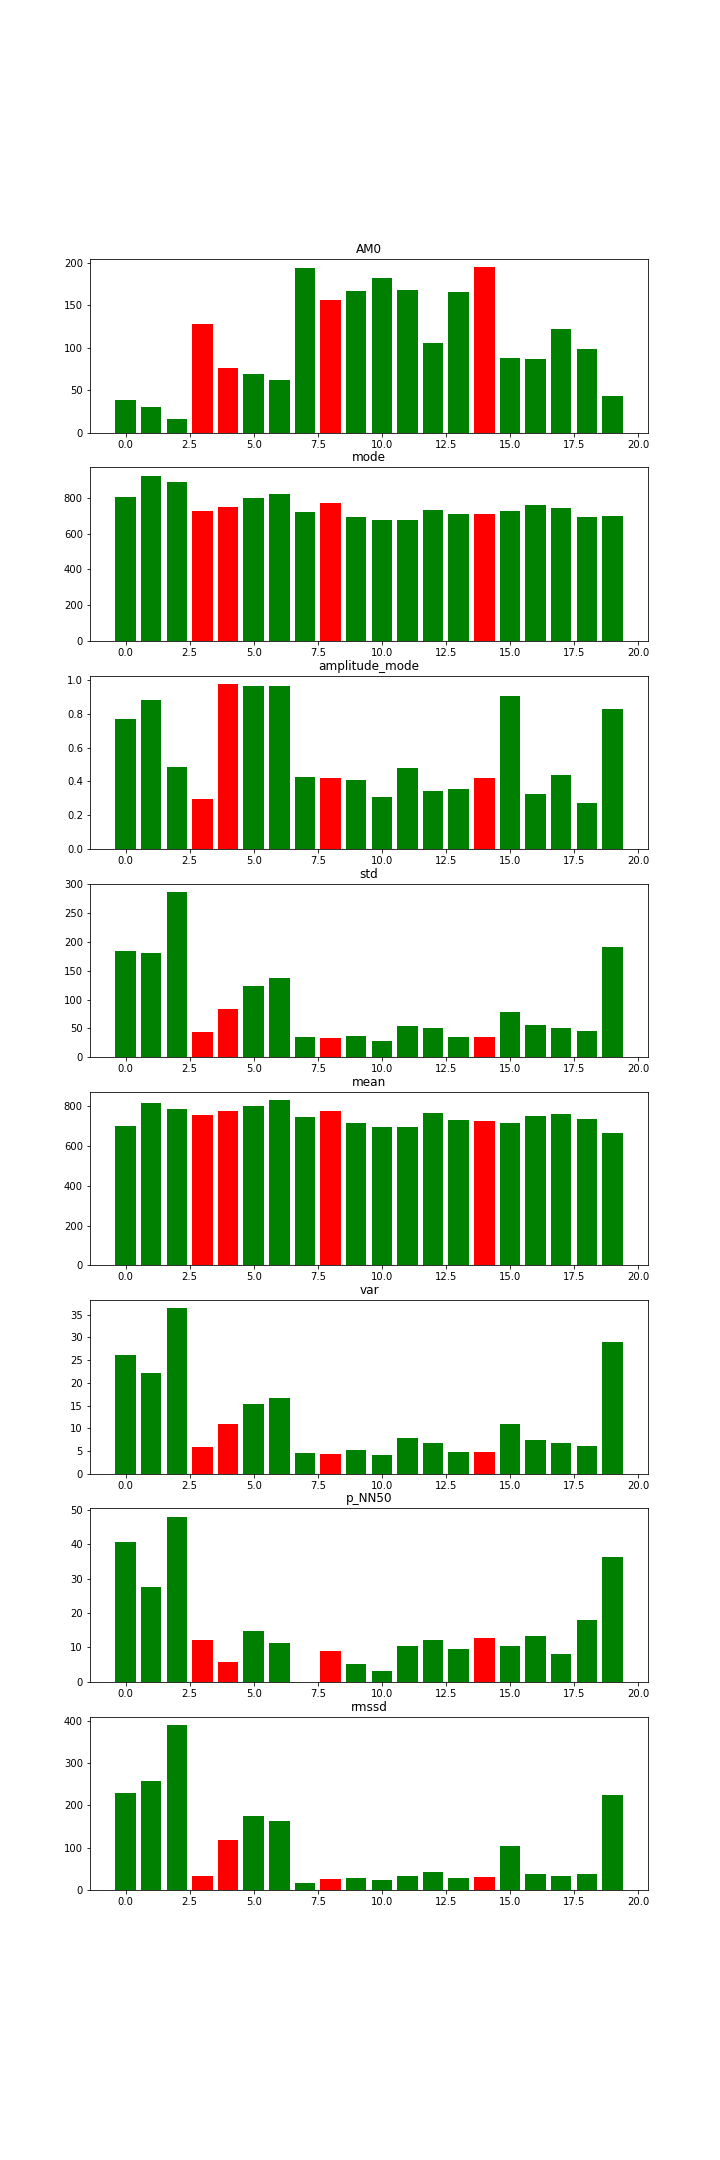
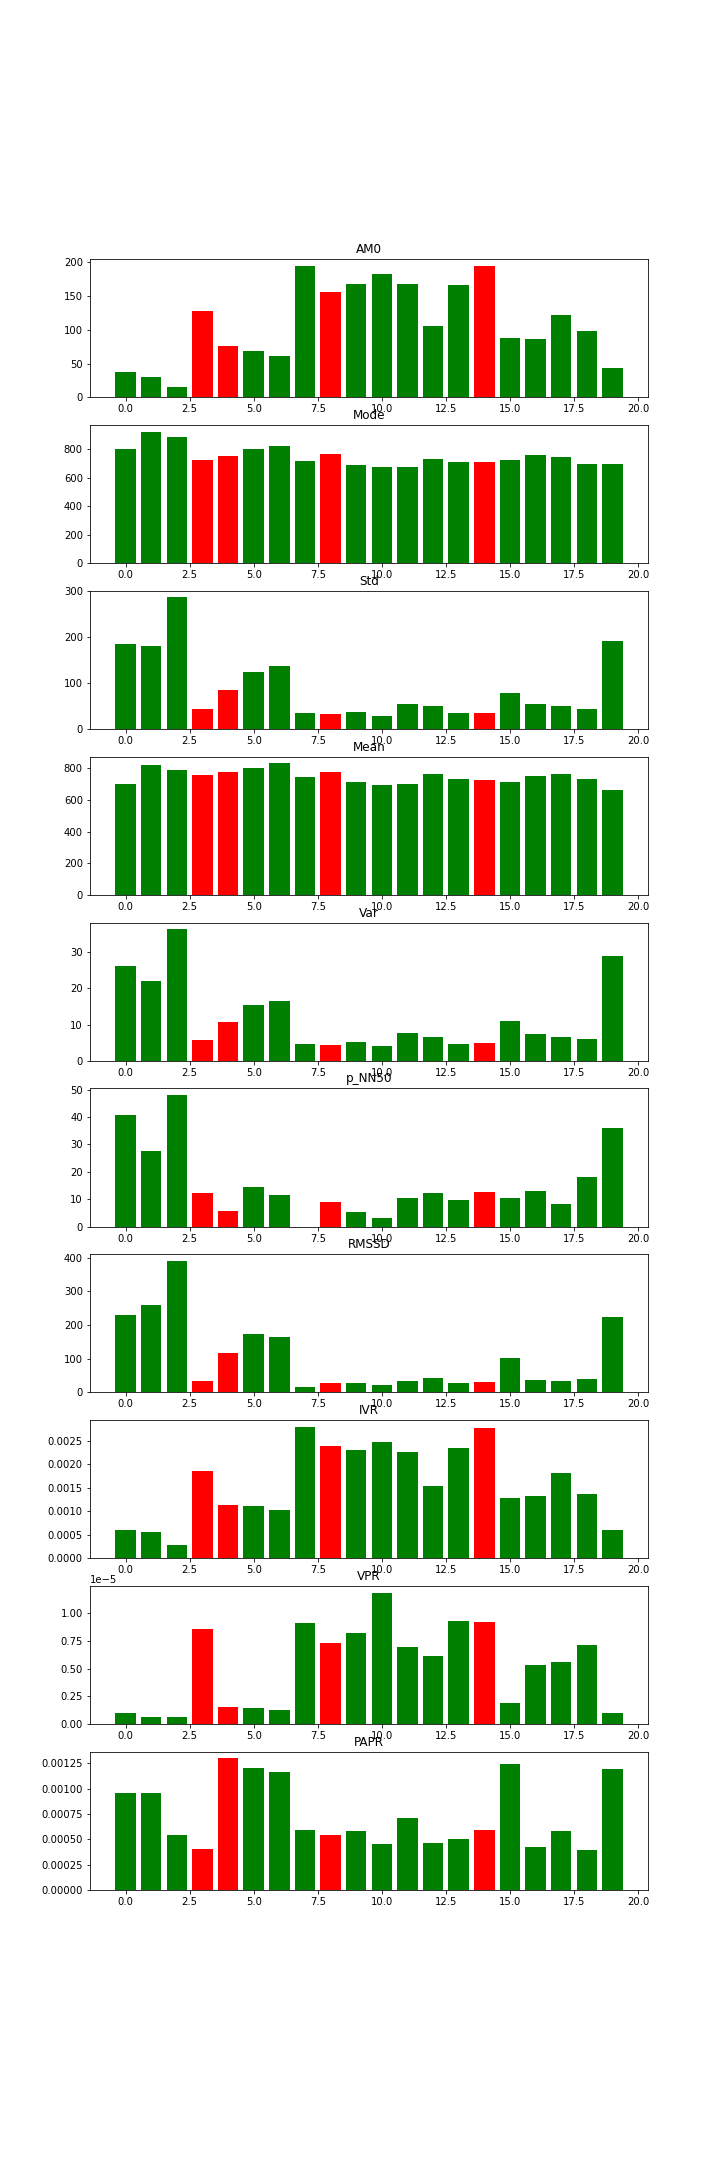
add new features

diff --git a/main_features/rr_features.py b/main_features/rr_features.py
@@ -78,7 +78,10 @@ class StatFeatures:
                 self.get_mean(),
                 self.get_var(),
                 self.get_pNN_50(),
-                self.get_RMSSD(),]
+                self.get_RMSSD(),
+                self.get_ivr(),
+                self.get_vpr(),
+                self.get_papr()]
 
     '''
     Индекс напряжения регуляторных истем
@@ -143,3 +146,22 @@ class StatFeatures:
 
         return math.sqrt(rmssd / (len(self.__data) - 1))
 
+    '''
+    Индекс вегетативного равновесия
+    '''
+    def get_ivr(self):
+        dRR = (self.__max_rr - self.__min_rr)
+        return self.get_mode_amplitude() / dRR
+
+    '''
+    Вегетативный показатель ритма
+    '''
+    def get_vpr(self):
+        dRR = (self.__max_rr - self.__min_rr)
+        return 1 / (self.get_mode() * dRR)
+
+    '''
+    Показатель адекватности процессов регуляции
+    '''
+    def get_papr(self):
+        return self.get_mode_amplitude() / self.get_mode()
